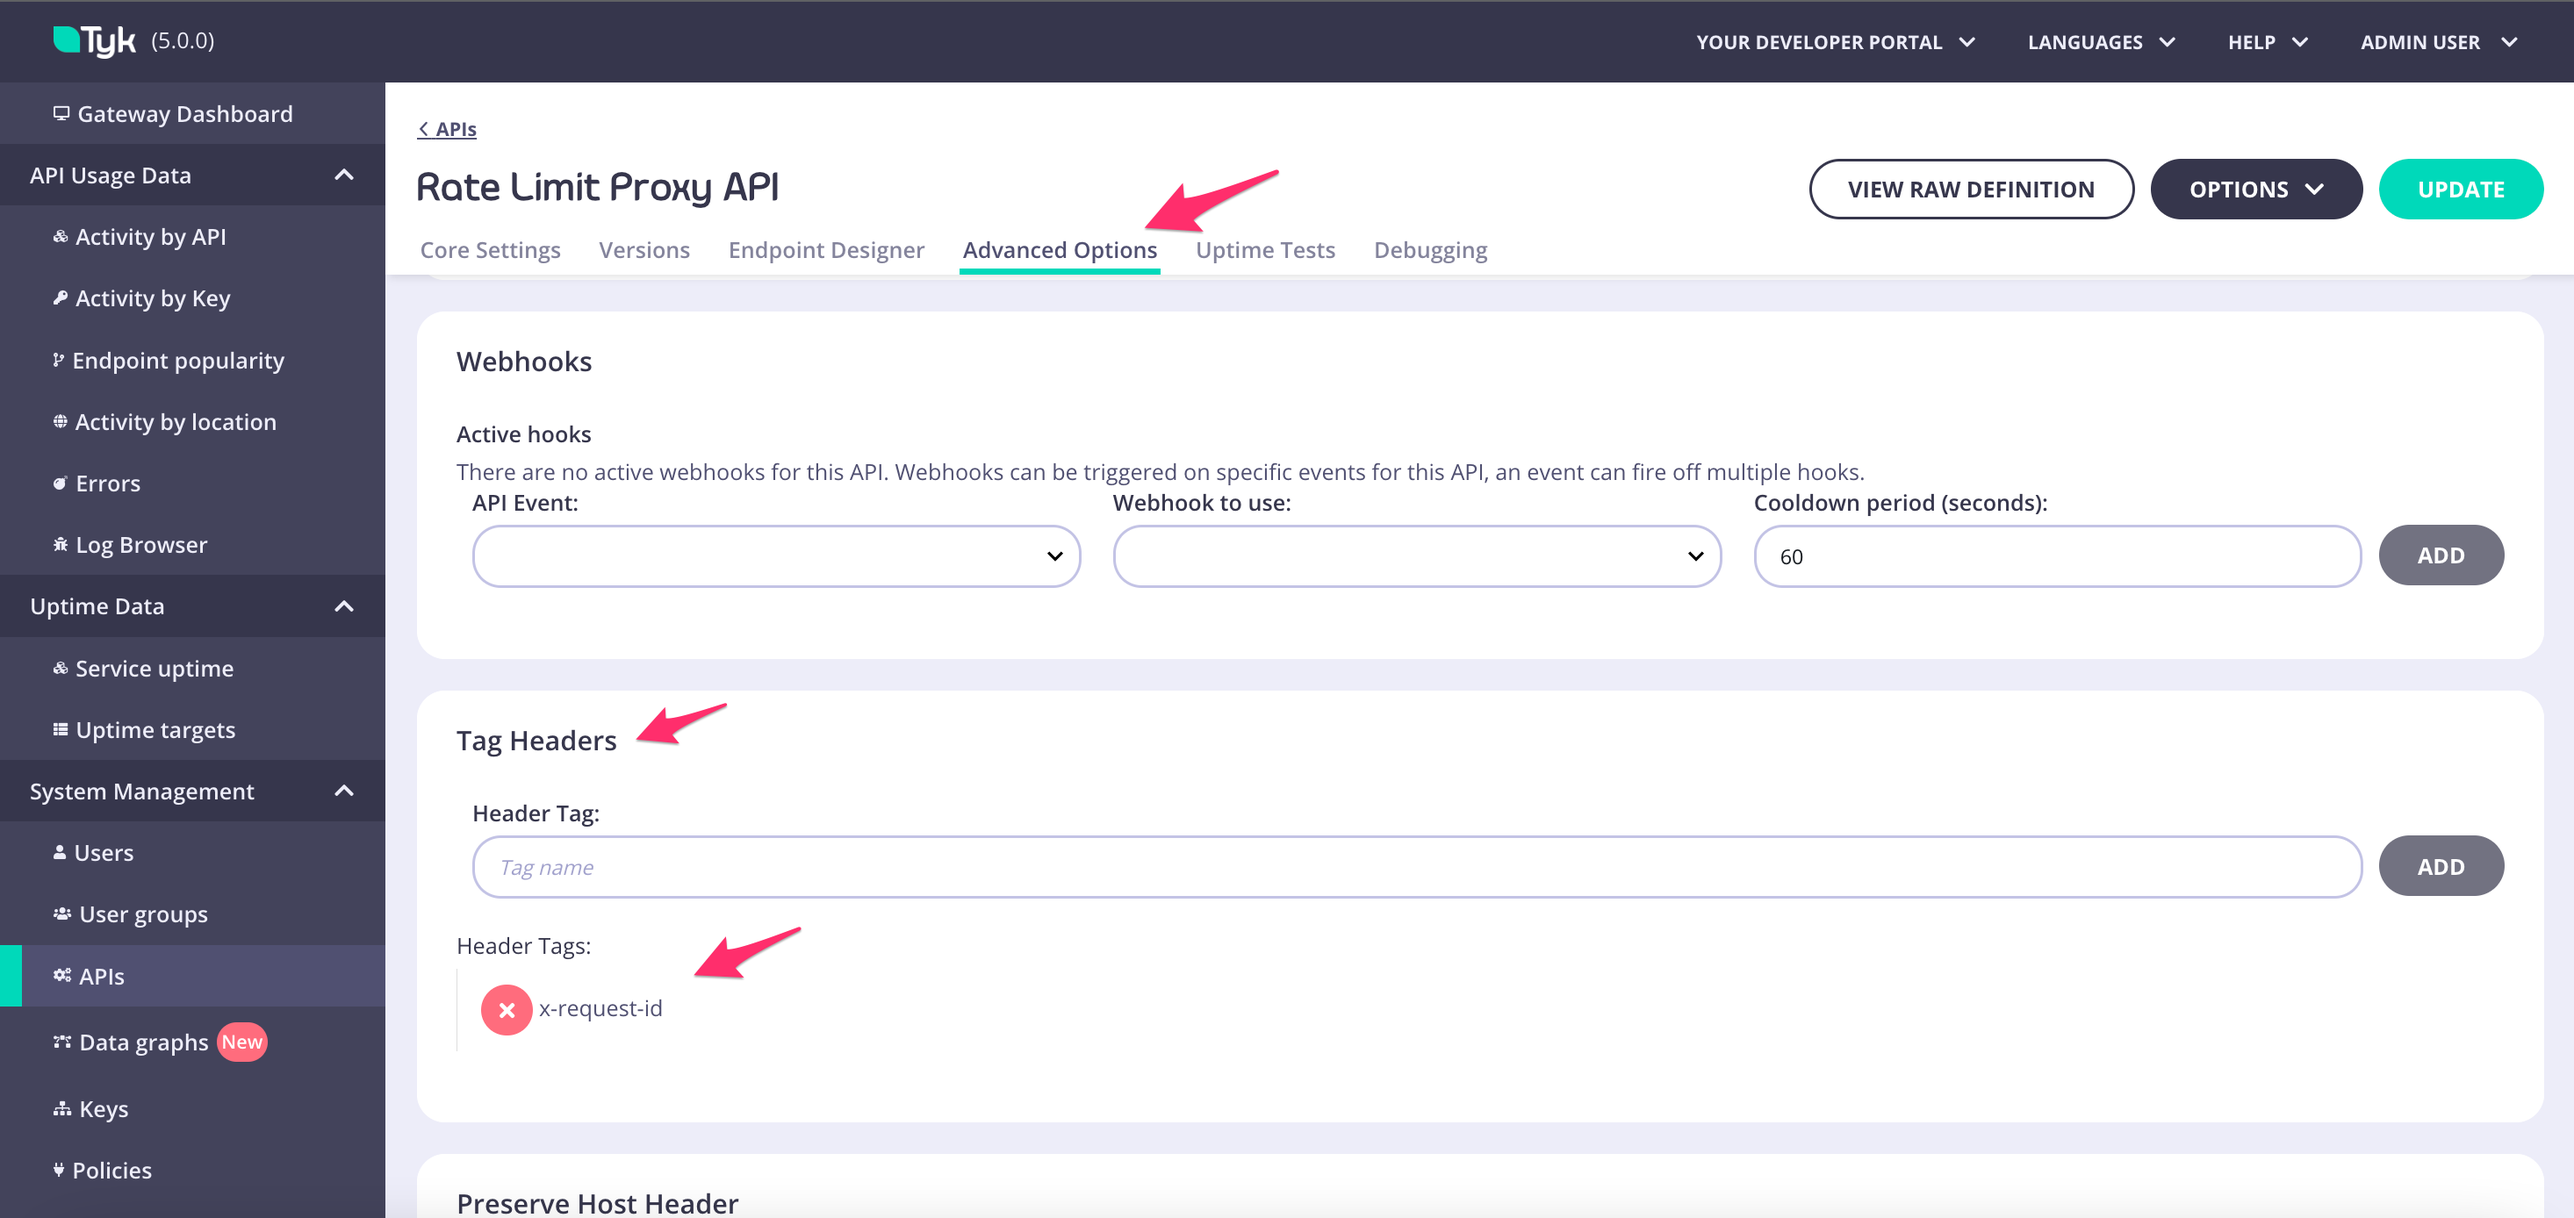
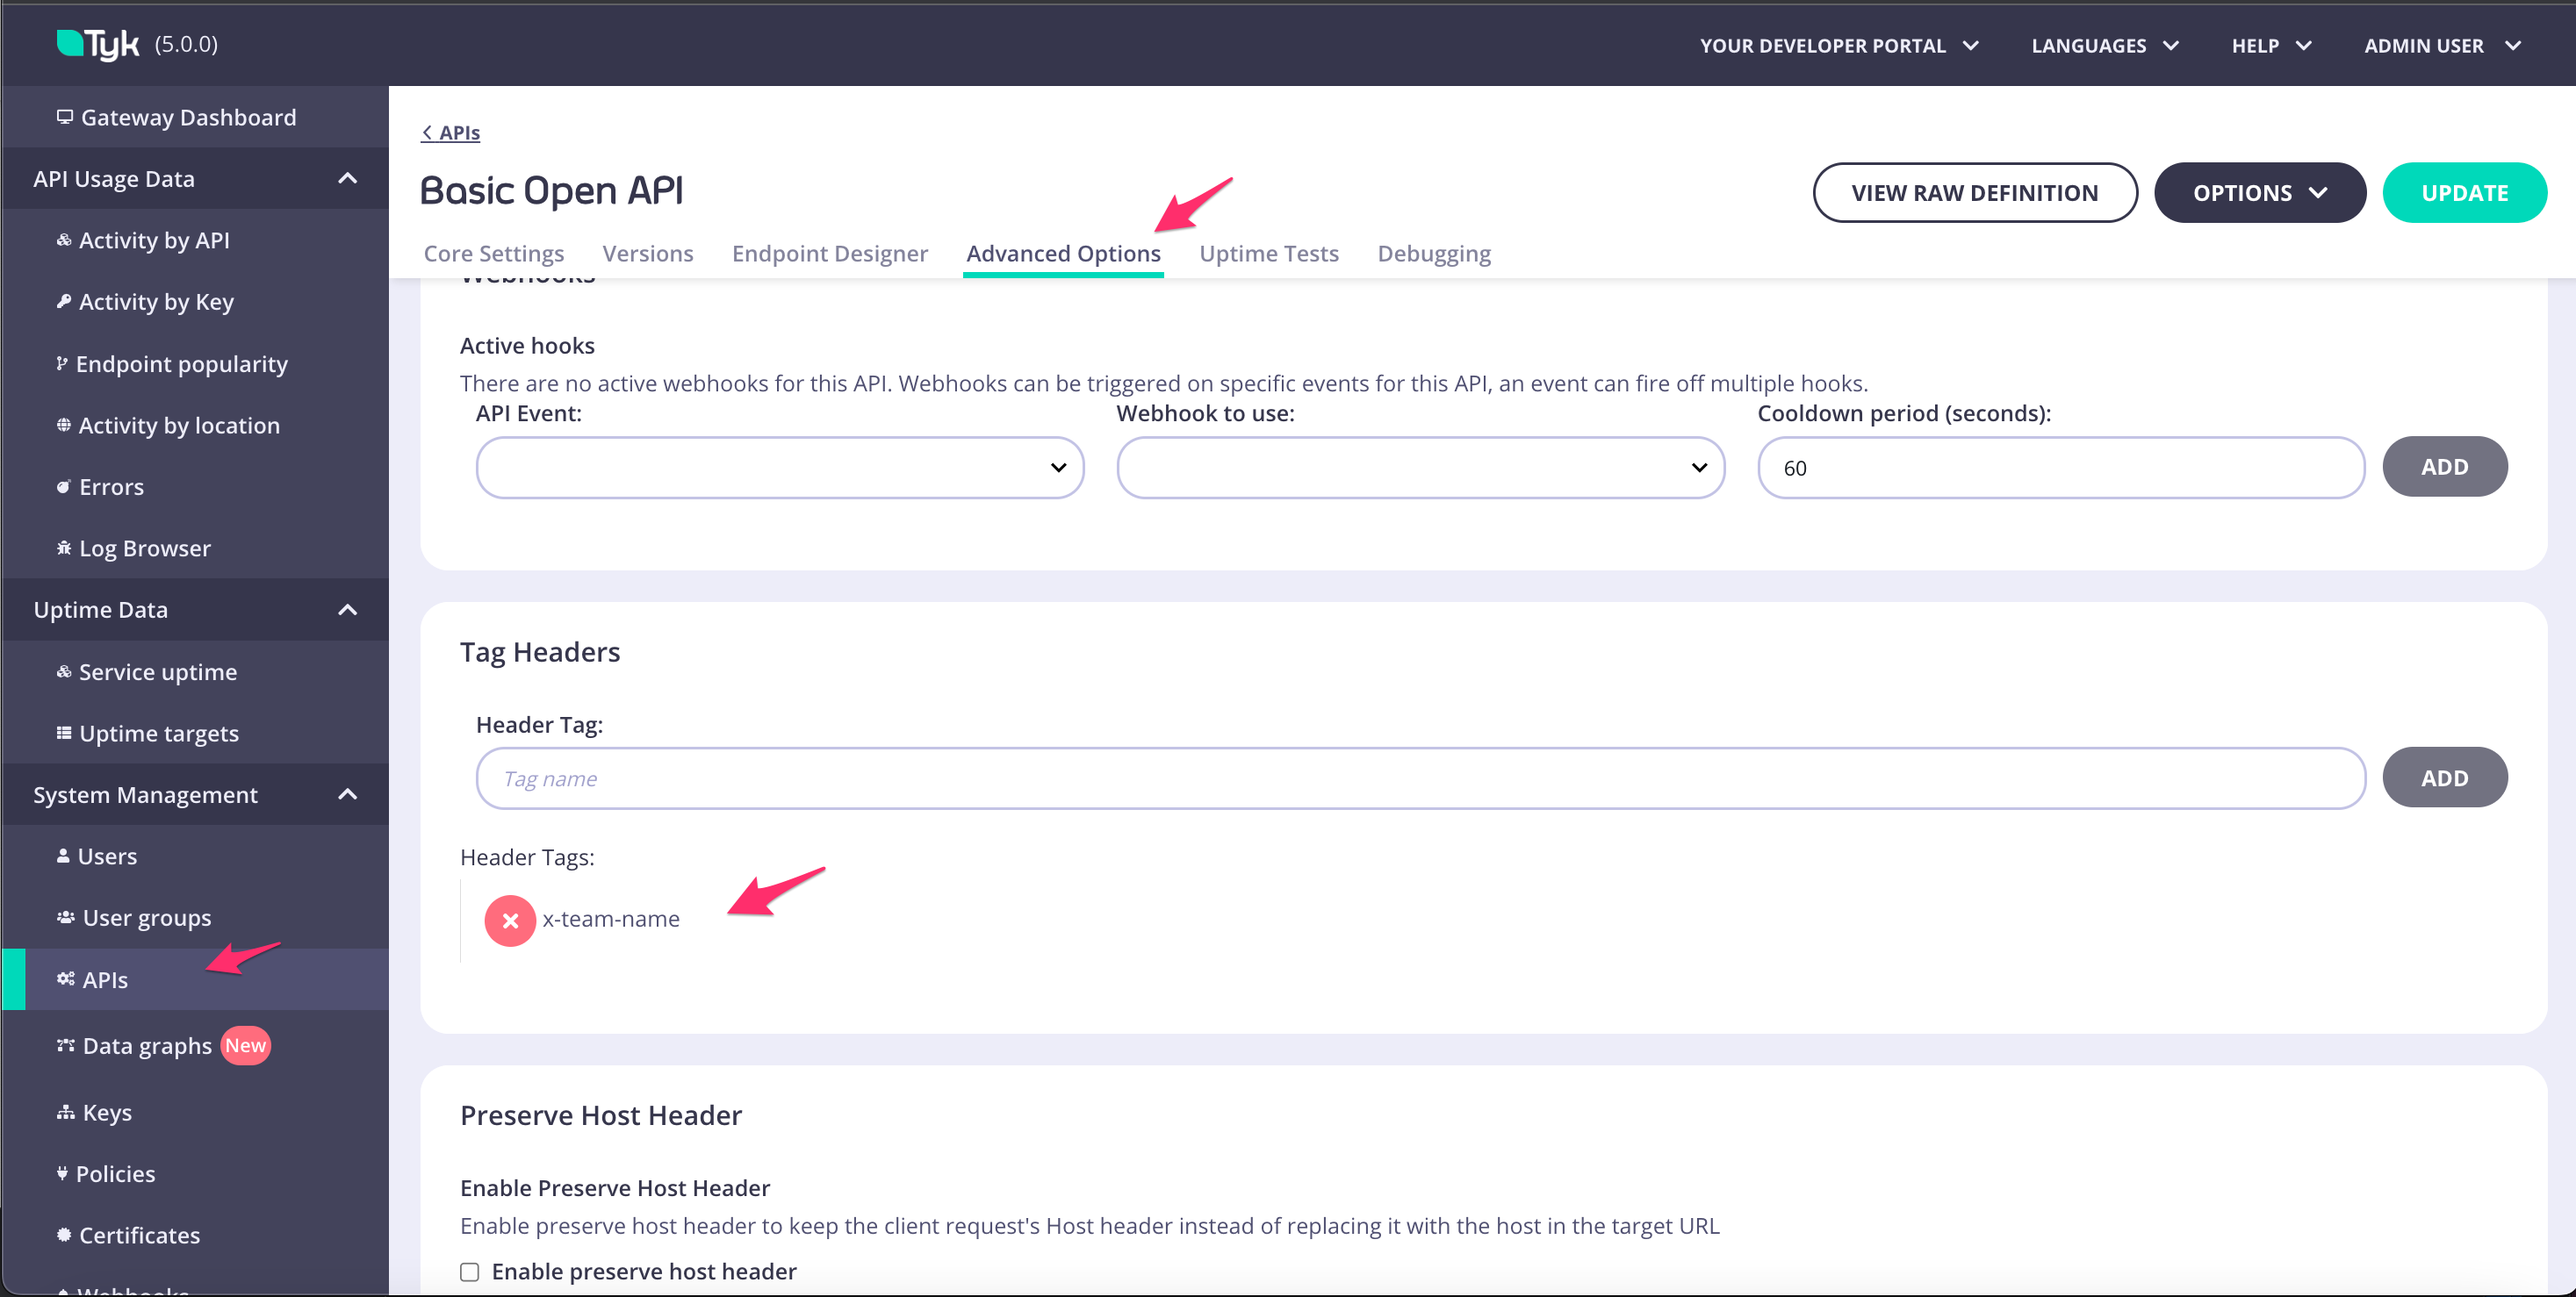
remove include function and add all content. Change the example to x-team-name

diff --git a/tyk-docs/content/tyk-apis/tyk-gateway-api/api-definition-objects/custom-analytics.md b/tyk-docs/content/tyk-apis/tyk-gateway-api/api-definition-objects/custom-analytics.md
@@ -9,25 +9,53 @@ aliases:
     - /tyk-rest-api/api-definition-objects/custom-analytics/
 --- 
 
-{{< include "api-def-custom-analytics" >}}
-### Configuration:
+`tag_headers` is a string array of HTTP headers which can be extracted and turned to tags.
 
-In the Dashboard, with an API configured, click in to your newly created API and head to Advanced Options. 
+For example if you include `X-test-header` header in the `tag_headers` array, then, for each incoming request Tyk will add a `x-test-header-<header_value>` tag to the list of tags in the request analytic record.
 
-Navigate down to the Tag Headers section and pass in `X-Request-Id` to the Header Tag array. 
+
+## When is it useful    
+
+If you need to record additional information from the request into the analytics, without enabling [detailed logging]({{<ref "tyk-oss-gateway/configuration#analytics_configenable_detailed_recording">}}), (which isn't always useful since consumes a lot of space when it records the full request and response objects).
+
+If you wish to track group of API requests.  For example
+- Show me all API requests where `tenant-id=123` 
+- Show me all API requests where `user-group=abc`
+
+
+## Tags and Aggregated analytics
+
+Tag, by default, creates aggregations for the tags it records. Since we are making the header name that is recored part of the tag value, Tyk, will also add an aggregation point for that tag value in the aggregated analytics.
+
+### How to avoid creating aggregated analytics
+If you don't want to have aggregation for these tags you can add them or their prefixes to `ignore_tag_prefix_list` in `pump.conf` in case the pump is writing the aggregated analytics to MongoDB. Alternatively, in case MDCB is doing the writing to mongoDB, set the same field in `tyk_sink.conf` at root level (please note that this field is replacing `aggregates_ignore_tags` which is still working but will eventually be deprecated).
+
+{{< warning success >}}
+**Warning**
+
+If you add to the tags list headers that are **unique** per request, like timestamp or [X-Request-Id]({{<ref "context-variables#the-available-context-variables-are" >}}), then Tyk Gateway will essentially create an aggregation point **per request*, and the number of these tags in an hour will be equal to the number of requests.
+<br/>
+Since there's no real value in aggregating something that has a total of 1 and also the hourly aggregation documents can grow very quickly, we recommend to always add the header name to the ignore list as follows:
+
+    "ignore_tag_prefix_list": [ "x-request-id" ]
+
+{{< /warning >}}
+
+
+## Guide to set up and test tag headers in the dashboard
+
+1. In the Dashboard, with an API configured, open your API and head to "Advanced Options".
+2. Set up: Navigate down to the Tag Headers section and add `X-Team-Name` to the list.
 
 {{< img src="/img/custom-analytics-tags/tag-headers.png" alt="Tag Headers" >}}
 
-Using your preferred HTTP client, pass the `X-Request-Id` header and make a request to test out your work.
+3. Test: Using your preferred HTTP client, pass the `X-Team-Name` header and make a request to test out your work. For example, with curl run the following
+```curl
+curl http://tyk-gateway.localhost:8080/basic-open-api/get -H "X-Team-Name: devops-us-1" -vv
+```
 
-{{< img src="/img/custom-analytics-tags/curl-request.png" alt="Request" >}}
-
-Navigate back to the Dashboard and select the Log Browser to view detailed logging. Under Gateway Metadata, we can find the Tags attached to our request and should be able to see the header and value was injected as a tag.
+4. Check: Navigate back to the Dashboard and select the "Log Browser" to view the logged requests. Open the request record and in the "Gateway Metadata" section (on theright), you can find the "Tags" attached to our request. There you should see the header and value you sent to in the reuquest and that Tyk Gateway recorded as a `tag`.
 
 {{< img src="/img/custom-analytics-tags/log-browser.png" alt="Log Browser" >}}
 
-This is useful if you wish to track aggregate API requests.  For example
-- Show me all API requests where `tenant-id=123` 
-- Show me all API requests where `user-id=abc`
-
-And so-on.  We can now have Tyk track API requests which contain our business logic.
+We can now have Tyk track API requests which contain our business logic.
